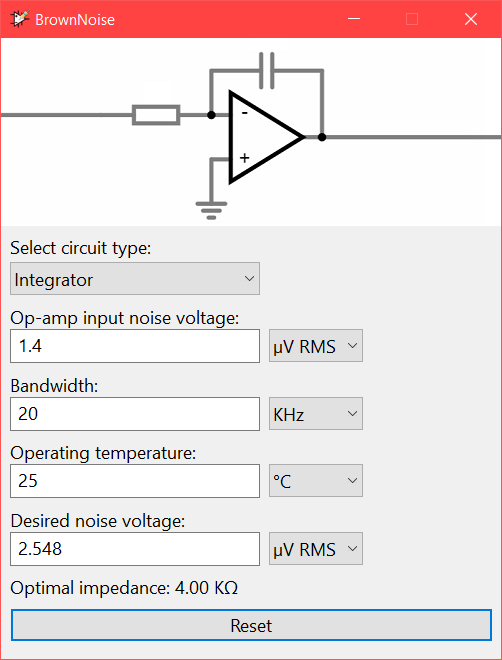
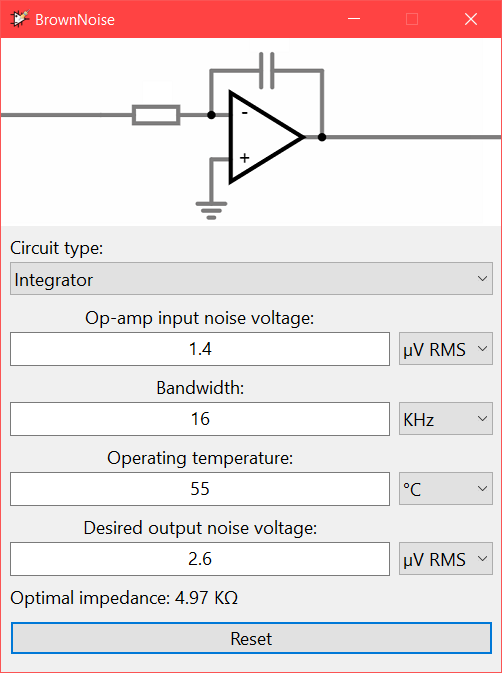
Tweak UI element spacing

diff --git a/src/resource.h b/src/resource.h
@@ -7,8 +7,8 @@
 #define BROWN_NOISE_TITLE_ASCII "BrownNoise"
 #define BROWN_NOISE_TITLE (L"" BROWN_NOISE_TITLE_ASCII)
 
-#define VERSION_SEQUENCE      0,3
-#define VERSION_SEQUENCE_STR "0.3"
+#define VERSION_SEQUENCE      0,4
+#define VERSION_SEQUENCE_STR "0.4"
 
 #define IDB_NORM 101
 #define IDB_DIFF 102
@@ -38,79 +38,91 @@
 
 #define DROPTYPE_S_POS_X  BN_MARGIN
 #define DROPTYPE_S_POS_Y  (BMP_SIZE_Y + BN_MARGIN)
-#define DROPTYPE_S_SIZE_X (SIZE_X - BN_MARGIN)
+#define DROPTYPE_S_SIZE_X (SIZE_X - 2 * BN_MARGIN)
 #define DROPTYPE_S_SIZE_Y 22
 
 #define DROPTYPE_POS_X  BN_MARGIN
 #define DROPTYPE_POS_Y  (DROPTYPE_S_POS_Y + DROPTYPE_S_SIZE_Y)
-#define DROPTYPE_SIZE_X 200
+#define DROPTYPE_SIZE_X (SIZE_X - 2 * BN_MARGIN)
 #define DROPTYPE_SIZE_Y 27
+
 
 #define NOISE_S_POS_X  BN_MARGIN
 #define NOISE_S_POS_Y  (DROPTYPE_POS_Y + DROPTYPE_SIZE_Y + BN_MARGIN)
-#define NOISE_S_SIZE_X (SIZE_X - BN_MARGIN)
-#define NOISE_S_SIZE_Y 20
 
-#define NOISE_POS_X  BN_MARGIN
-#define NOISE_POS_Y  (NOISE_S_POS_Y + NOISE_S_SIZE_Y)
-#define NOISE_SIZE_X 200
-#define NOISE_SIZE_Y 27
-
-#define DROPNOISEU_POS_X  (NOISE_POS_X + NOISE_SIZE_X + BN_MARGIN)
-#define DROPNOISEU_POS_Y  NOISE_POS_Y
 #define DROPNOISEU_SIZE_X 75
 #define DROPNOISEU_SIZE_Y 27
 
+#define NOISE_POS_X  BN_MARGIN
+#define NOISE_POS_Y  (NOISE_S_POS_Y + NOISE_S_SIZE_Y)
+#define NOISE_SIZE_X (SIZE_X - 2 * BN_MARGIN - DROPNOISEU_SIZE_X - BN_MARGIN)
+#define NOISE_SIZE_Y 27
+
+#define DROPNOISEU_POS_X  (SIZE_X - DROPNOISEU_SIZE_X - BN_MARGIN)
+#define DROPNOISEU_POS_Y  NOISE_POS_Y
+
+#define NOISE_S_SIZE_X NOISE_SIZE_X
+#define NOISE_S_SIZE_Y 22
+
+
 #define BW_S_POS_X  BN_MARGIN
 #define BW_S_POS_Y  (DROPNOISEU_POS_Y + DROPNOISEU_SIZE_Y + BN_MARGIN)
-#define BW_S_SIZE_X (SIZE_X - BN_MARGIN)
-#define BW_S_SIZE_Y 20
 
-#define BANDWIDTH_POS_X  BN_MARGIN
-#define BANDWIDTH_POS_Y  (BW_S_POS_Y + BW_S_SIZE_Y)
-#define BANDWIDTH_SIZE_X 200
-#define BANDWIDTH_SIZE_Y 27
-
-#define DROPBWUNIT_POS_X  (BANDWIDTH_POS_X + BANDWIDTH_SIZE_X + BN_MARGIN)
-#define DROPBWUNIT_POS_Y  BANDWIDTH_POS_Y
 #define DROPBWUNIT_SIZE_X 75
 #define DROPBWUNIT_SIZE_Y 27
 
+#define BANDWIDTH_POS_X  BN_MARGIN
+#define BANDWIDTH_POS_Y  (BW_S_POS_Y + BW_S_SIZE_Y)
+#define BANDWIDTH_SIZE_X (SIZE_X - 2 * BN_MARGIN - DROPBWUNIT_SIZE_X - BN_MARGIN)
+#define BANDWIDTH_SIZE_Y 27
+
+#define DROPBWUNIT_POS_X  (SIZE_X - DROPBWUNIT_SIZE_X - BN_MARGIN)
+#define DROPBWUNIT_POS_Y  BANDWIDTH_POS_Y
+
+#define BW_S_SIZE_X BANDWIDTH_SIZE_X
+#define BW_S_SIZE_Y 22
+
+
 #define TEMP_S_POS_X  BN_MARGIN
 #define TEMP_S_POS_Y  (DROPBWUNIT_POS_Y + DROPBWUNIT_SIZE_Y + BN_MARGIN)
-#define TEMP_S_SIZE_X (SIZE_X - BN_MARGIN)
-#define TEMP_S_SIZE_Y 20
+
+#define DROPTUNIT_SIZE_X 75
+#define DROPTUNIT_SIZE_Y 27
 
 #define TEMP_POS_X  BN_MARGIN
 #define TEMP_POS_Y  (TEMP_S_POS_Y + TEMP_S_SIZE_Y)
-#define TEMP_SIZE_X 200
+#define TEMP_SIZE_X (SIZE_X - 2 * BN_MARGIN - DROPTUNIT_SIZE_X - BN_MARGIN)
 #define TEMP_SIZE_Y 27
 
-#define DROPTUNIT_POS_X  (TEMP_POS_X + TEMP_SIZE_X + BN_MARGIN)
+#define DROPTUNIT_POS_X  (SIZE_X - DROPTUNIT_SIZE_X - BN_MARGIN)
 #define DROPTUNIT_POS_Y  TEMP_POS_Y
-#define DROPTUNIT_SIZE_X 75
-#define DROPTUNIT_SIZE_Y 27
+
+#define TEMP_S_SIZE_X TEMP_SIZE_X
+#define TEMP_S_SIZE_Y 22
 
 
 #define DESIREDN_S_POS_X  BN_MARGIN
 #define DESIREDN_S_POS_Y  (DROPTUNIT_POS_Y + DROPTUNIT_SIZE_Y + BN_MARGIN)
-#define DESIREDN_S_SIZE_X (SIZE_X - BN_MARGIN)
-#define DESIREDN_S_SIZE_Y 20
+
+#define DROPDESIREDN_SIZE_X 75
+#define DROPDESIREDN_SIZE_Y 27
 
 #define DESIREDN_POS_X  BN_MARGIN
 #define DESIREDN_POS_Y  (DESIREDN_S_POS_Y + DESIREDN_S_SIZE_Y)
-#define DESIREDN_SIZE_X 200
+#define DESIREDN_SIZE_X (SIZE_X - 2 * BN_MARGIN - DROPDESIREDN_SIZE_X - BN_MARGIN)
 #define DESIREDN_SIZE_Y 27
 
 #define DROPDESIREDN_POS_X  (DESIREDN_POS_X + DESIREDN_SIZE_X + BN_MARGIN)
 #define DROPDESIREDN_POS_Y  DESIREDN_POS_Y
-#define DROPDESIREDN_SIZE_X 75
-#define DROPDESIREDN_SIZE_Y 27
+
+#define DESIREDN_S_SIZE_X DESIREDN_SIZE_X
+#define DESIREDN_S_SIZE_Y 22
+
 
 #define RESULT_S_POS_X  BN_MARGIN
 #define RESULT_S_POS_Y  (DROPDESIREDN_POS_Y + DROPDESIREDN_SIZE_Y + BN_MARGIN)
-#define RESULT_S_SIZE_X (SIZE_X - BN_MARGIN)
-#define RESULT_S_SIZE_Y 20
+#define RESULT_S_SIZE_X (SIZE_X - 2 * BN_MARGIN)
+#define RESULT_S_SIZE_Y 22
 
 #define RESETBTN_POS_X  BN_MARGIN
 #define RESETBTN_POS_Y  (RESULT_S_POS_Y + RESULT_S_SIZE_Y + BN_MARGIN)

diff --git a/src/app.c b/src/app.c
@@ -152,7 +152,7 @@ HWND bn_createDrop(
 	HWND box = CreateWindowExW(
 		0,
 		L"combobox", NULL,
-		WS_CHILD | WS_VISIBLE | CBS_DROPDOWN | CBS_DROPDOWNLIST | WS_TABSTOP,
+		WS_CHILD | WS_VISIBLE | CBS_DROPDOWNLIST | WS_TABSTOP,
 		x,  y,
 		cx, cy,
 		parent,
@@ -207,7 +207,7 @@ HWND bn_createNumText(
 	HWND box = CreateWindowExW(
 		WS_EX_CLIENTEDGE,
 		L"edit", L"",
-		WS_CHILD | WS_VISIBLE | ES_LEFT | WS_TABSTOP,
+		WS_CHILD | WS_VISIBLE | ES_CENTER | WS_TABSTOP,
 		x,  y,
 		cx, cy,
 		parent,
@@ -603,31 +603,31 @@ void bn_paint(bndata_t * restrict This, HDC hdc)
 		.right  = tr.left + bn_defcdpi(DROPTYPE_S_SIZE_X),
 		.bottom = tr.top  + bn_defcdpi(DROPTYPE_S_SIZE_Y)
 	};
-	DrawTextW(hdc, L"Select circuit type:", -1, &tr, DT_SINGLELINE | DT_LEFT);
+	DrawTextW(hdc, L"Circuit type:", -1, &tr, DT_SINGLELINE | DT_LEFT);
 
 	tr.left   = bn_defcdpi(NOISE_S_POS_X);
 	tr.top    = bn_defcdpi(NOISE_S_POS_Y);
 	tr.right  = tr.left + bn_defcdpi(NOISE_S_SIZE_X);
 	tr.bottom = tr.top  + bn_defcdpi(NOISE_S_SIZE_Y);
-	DrawTextW(hdc, L"Op-amp input noise voltage:", -1, &tr, DT_SINGLELINE | DT_LEFT);
+	DrawTextW(hdc, L"Op-amp input noise voltage:", -1, &tr, DT_SINGLELINE | DT_CENTER);
 
 	tr.left   = bn_defcdpi(BW_S_POS_X);
 	tr.top    = bn_defcdpi(BW_S_POS_Y);
 	tr.right  = tr.left + bn_defcdpi(BW_S_SIZE_X);
 	tr.bottom = tr.top  + bn_defcdpi(BW_S_SIZE_Y);
-	DrawTextW(hdc, L"Bandwidth:", -1, &tr, DT_SINGLELINE | DT_LEFT);
+	DrawTextW(hdc, L"Bandwidth:", -1, &tr, DT_SINGLELINE | DT_CENTER);
 
 	tr.left   = bn_defcdpi(TEMP_S_POS_X);
 	tr.top    = bn_defcdpi(TEMP_S_POS_Y);
 	tr.right  = tr.left + bn_defcdpi(TEMP_S_SIZE_X);
 	tr.bottom = tr.top  + bn_defcdpi(TEMP_S_SIZE_Y);
-	DrawTextW(hdc, L"Operating temperature:", -1, &tr, DT_SINGLELINE | DT_LEFT);
+	DrawTextW(hdc, L"Operating temperature:", -1, &tr, DT_SINGLELINE | DT_CENTER);
 
 	tr.left   = bn_defcdpi(DESIREDN_S_POS_X);
 	tr.top    = bn_defcdpi(DESIREDN_S_POS_Y);
 	tr.right  = tr.left + bn_defcdpi(DESIREDN_S_SIZE_X);
 	tr.bottom = tr.top  + bn_defcdpi(DESIREDN_S_SIZE_Y);
-	DrawTextW(hdc, L"Desired noise voltage:", -1, &tr, DT_SINGLELINE | DT_LEFT);
+	DrawTextW(hdc, L"Desired output noise voltage:", -1, &tr, DT_SINGLELINE | DT_CENTER);
 
 	
 	tr.left   = bn_defcdpi(RESULT_S_POS_X);

diff --git a/README.md b/README.md
@@ -28,6 +28,8 @@ This application allows users to enter in desired operating temperature and op-a
 
 # Changelog
 
+* 0.4
+	* [x] Tweak UI element spacing
 * 0.3
 	* [x] Fix StretchBlt horrible quality -> images now clear
 	* [x] RMS-noise as default unit
